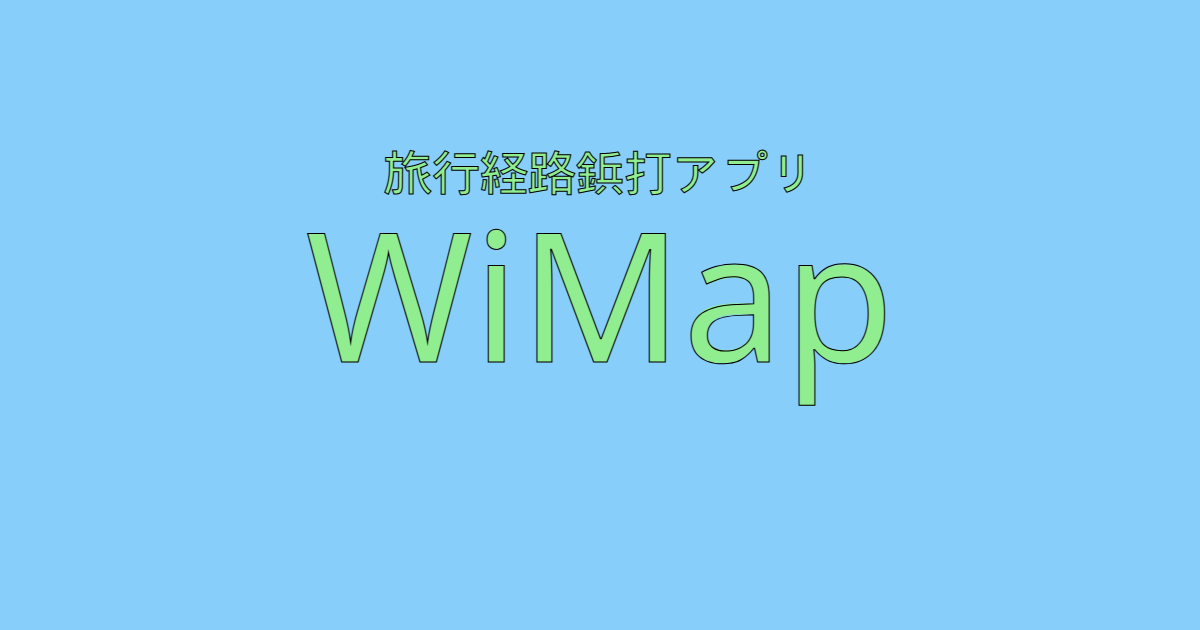
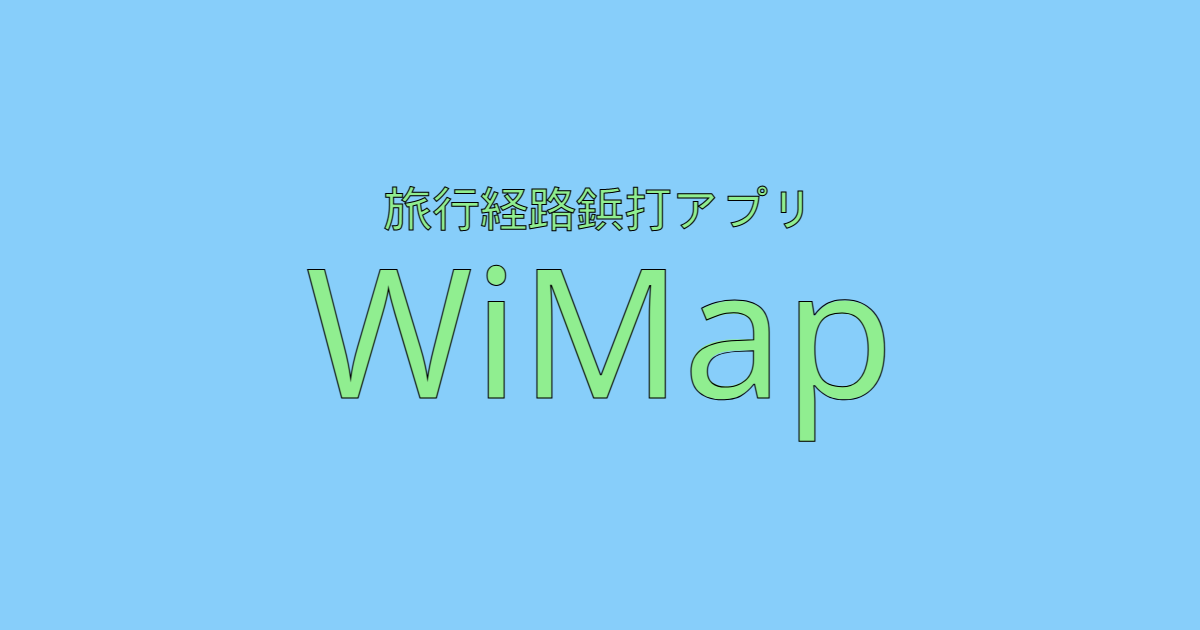
言語を指定した

Changed region(s): [[0.2467, 0.2413, 0.74, 0.6333], [0.6475, 0.6333, 0.6783, 0.7238]]

diff --git a/ogp.html b/ogp.html
@@ -20,11 +20,11 @@
         context.font = "180px monospace";
         context.textAlign = "center";
         context.textBaseline = "middle";
-        context.fillText("WiMap", 600, 315);
-        context.strokeText("WiMap", 600, 315);
+        context.fillText("WiMap", 600, 315+36);
+        context.strokeText("WiMap", 600, 315+36);
         context.font = "48px monospace";
-        context.fillText("旅行経路鋲打アプリ", 600, 315-90-48);
-        context.strokeText("旅行経路鋲打アプリ", 600, 315-90-48);
+        context.fillText("旅行経路鋲打アプリ", 600, 315-90-48+36);
+        context.strokeText("旅行経路鋲打アプリ", 600, 315-90-48+36);
     </script>
 </body>
 </html>

diff --git a/src/pages/_document.tsx b/src/pages/_document.tsx
@@ -1,0 +1,15 @@
+import Document, { Html, Head, Main, NextScript } from "next/document";
+
+class MyDocument extends Document {
+    render(): JSX.Element {
+        return (
+            <Html lang="ja">
+                <Head />
+                <Main />
+                <NextScript />
+            </Html>
+        );
+    }
+}
+
+export default MyDocument;
